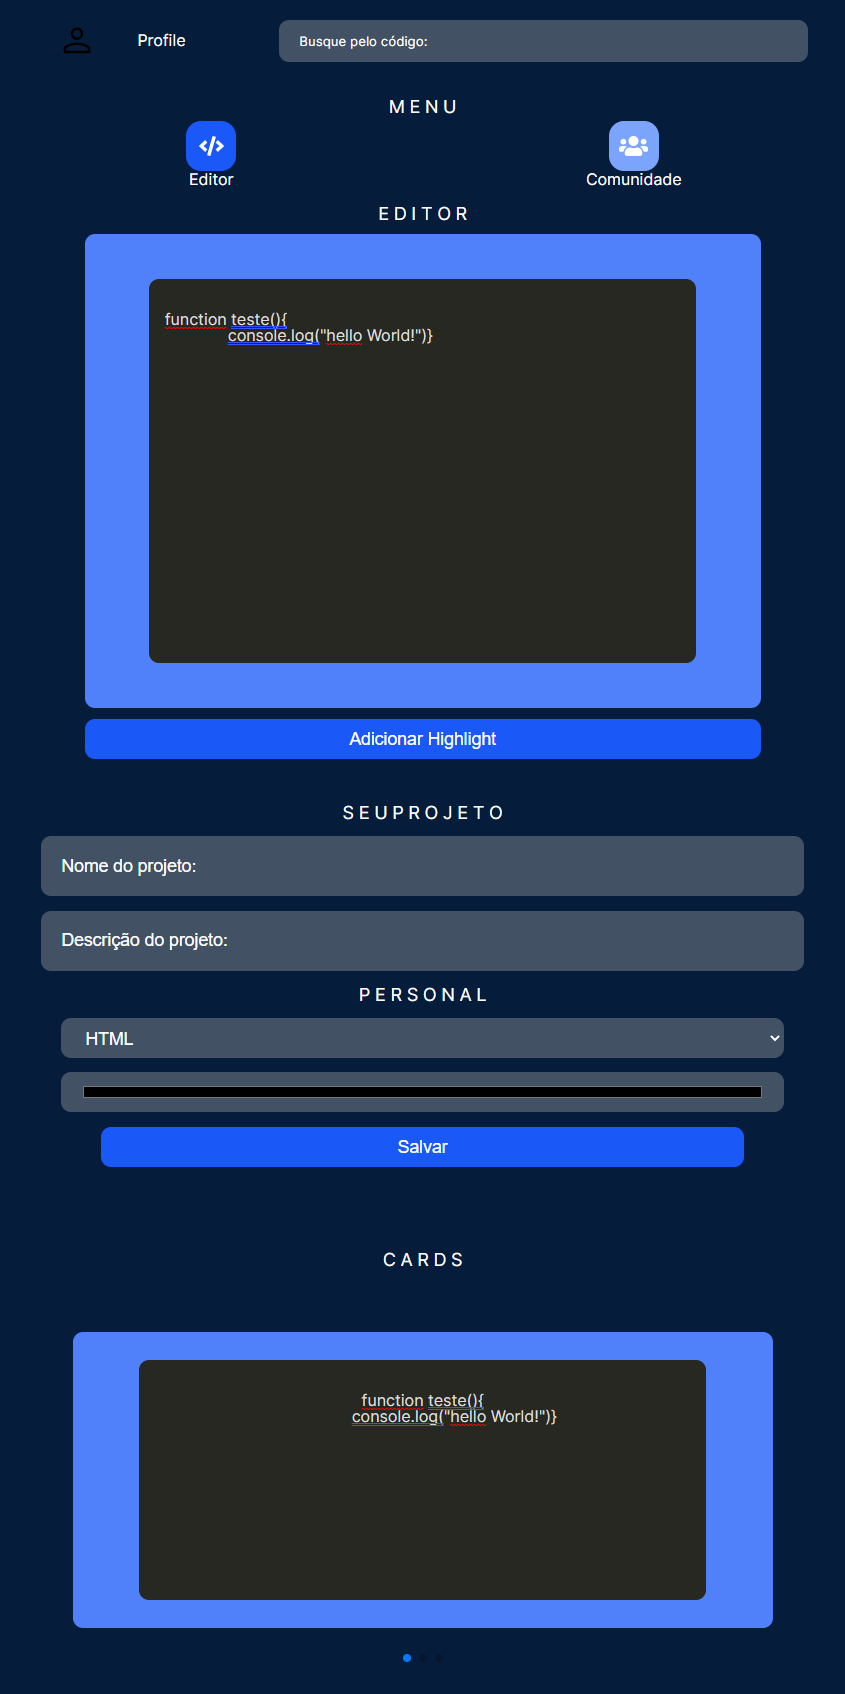
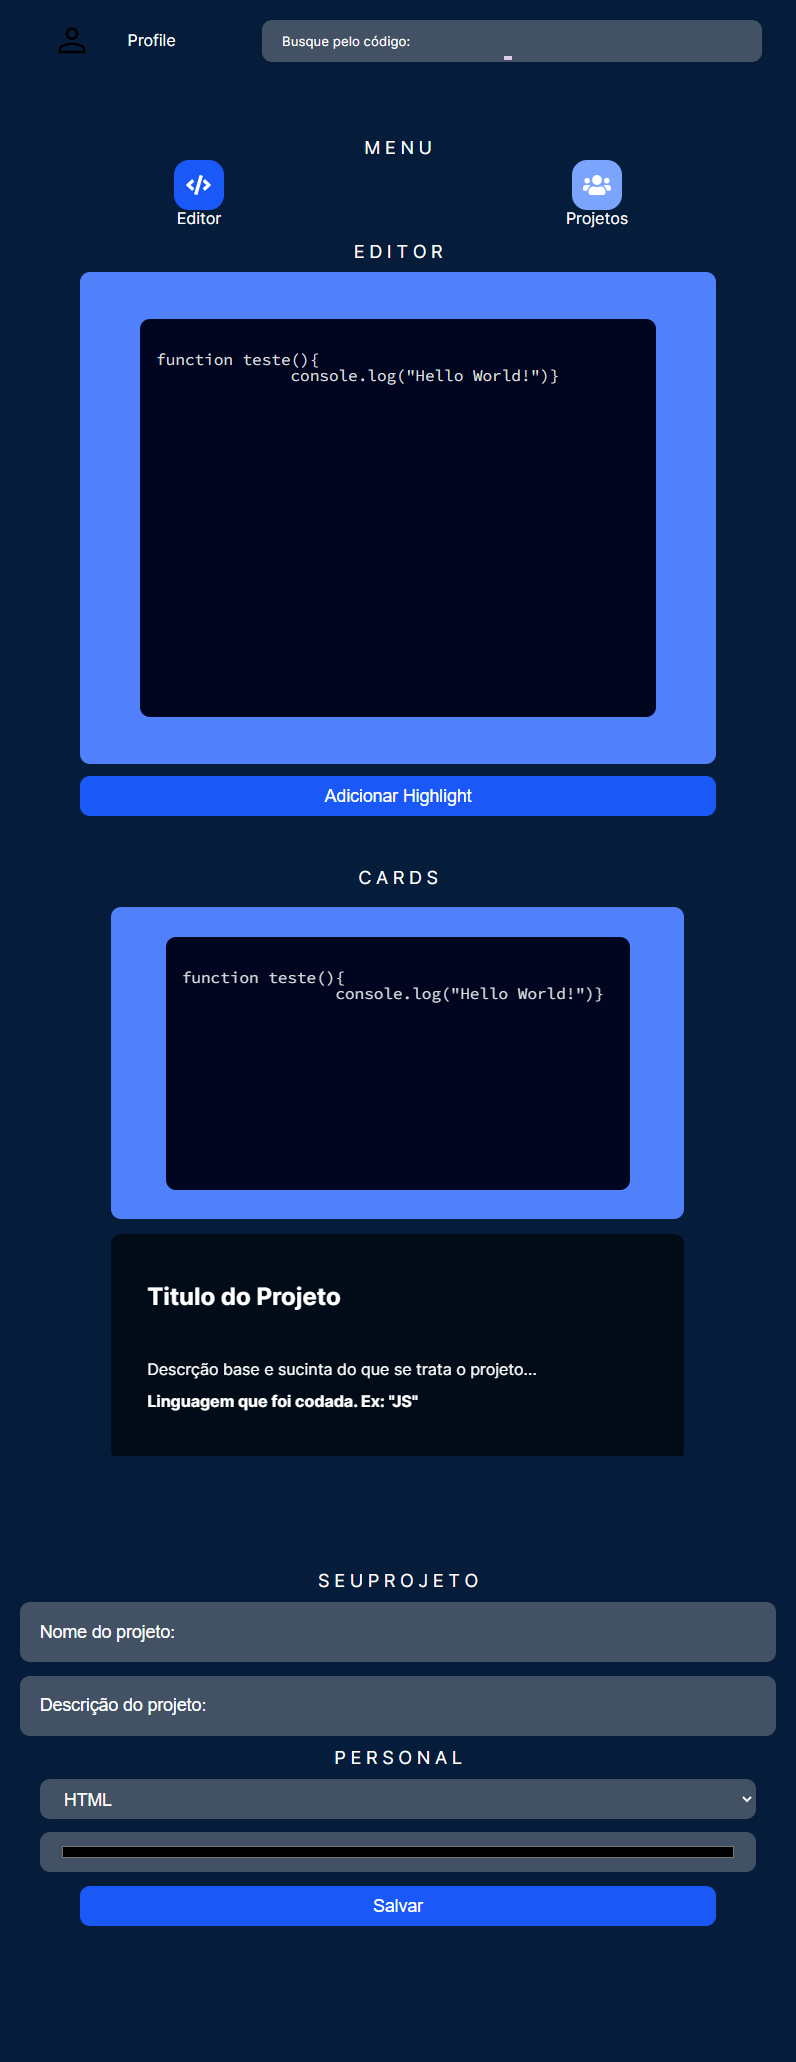
Mobile and Desktop responsive cards

diff --git a/index.html b/index.html
@@ -84,9 +84,9 @@
         <!-- Slides -->
         <div class="swiper-slide">
           <div class="card">
-            <h4 class="title-project">AluraFlix</h4>
-            <p class="desc-project">Esse é o projeto de uma netflix feito em React.js</p>
-            <span class="lang-project">JS</span>
+            <h4 class="title-project">Titulo do Projeto</h4>
+            <p class="desc-project">Descrção base e sucinta do que se trata o projeto...</p>
+            <span class="lang-project">Linguagem que foi codada. Ex: "JS"</span>
           </div>
           <div class="editor-back">
             <div class="code-wrapper">

diff --git a/js/main.js b/js/main.js
@@ -58,6 +58,6 @@ function buildCard() {
   languageCard.classList.add("lang-project");
   languageCard.innerText = languageValue;
   card.appendChild(languageCard);
-
+  highlight();
   swiper();
 }
